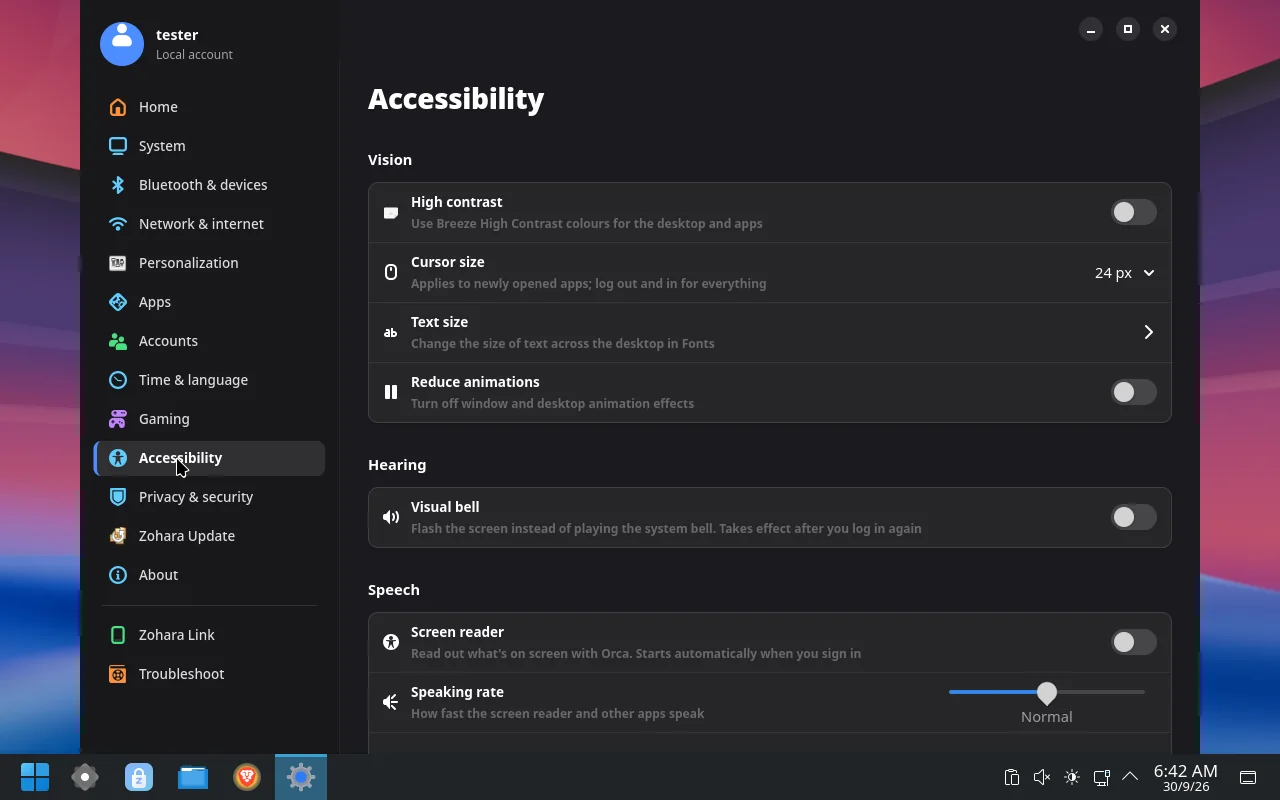
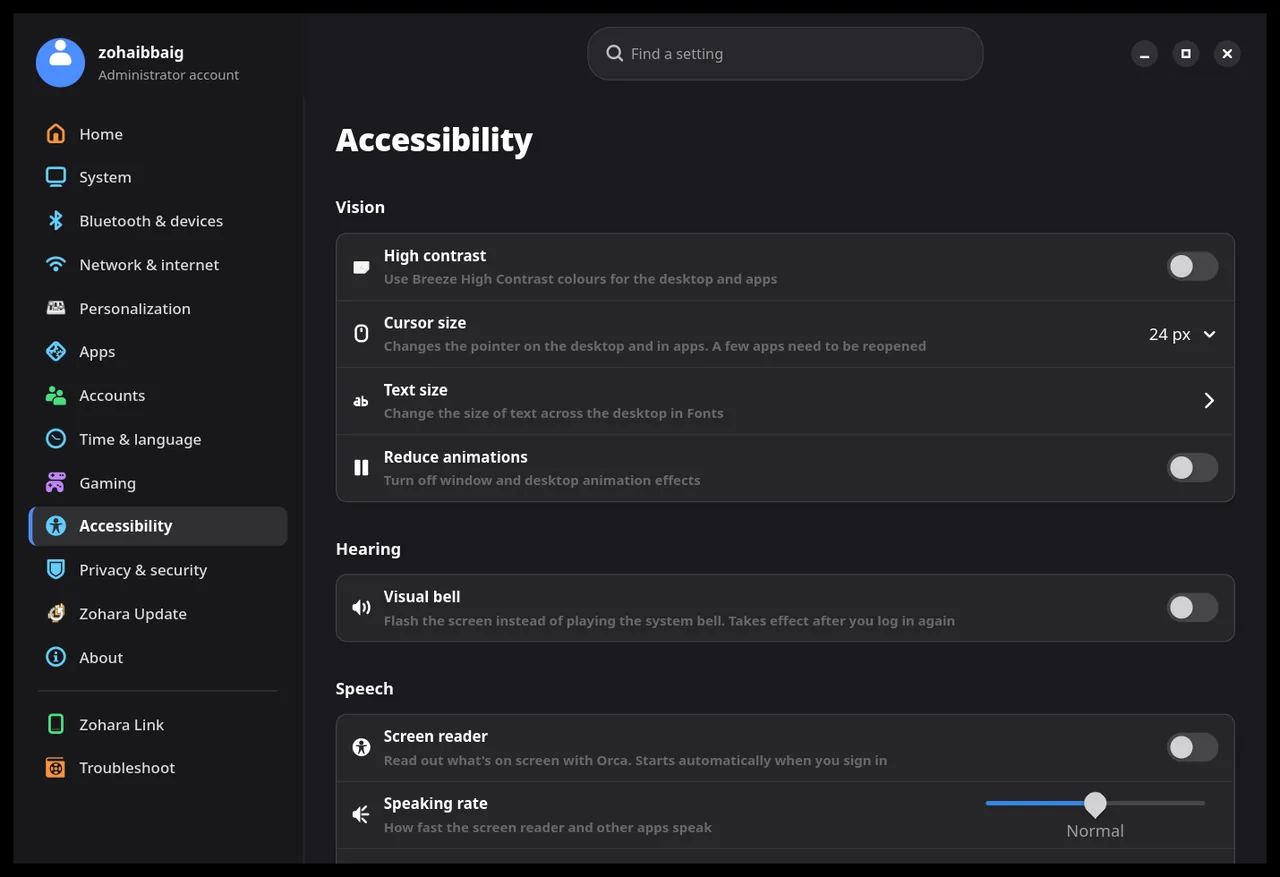
Draft for Zohara OS 1.1: new features section (12 cards), real Settings screenshots, updated description; download section unchanged until the ISO is uploaded

diff --git a/index.html b/index.html
@@ -4,7 +4,7 @@
   <meta charset="utf-8">
   <meta name="viewport" content="width=device-width, initial-scale=1">
   <title>Zohara OS — a Linux that feels like home</title>
-  <meta name="description" content="Zohara OS is an Arch-based Linux with a desktop Windows users already know: a familiar taskbar and Start menu, a Windows 11-style Settings app, a software store and voice typing that runs on your own computer.">
+  <meta name="description" content="Zohara OS 1.1 is an Arch-based Linux with a desktop Windows users already know: a taskbar and Start menu, a 3D desktop cube, a Windows 11-style Settings app, a software store and voice typing that runs on your own computer.">
   <meta name="theme-color" content="#0B0E14">
   <meta name="color-scheme" content="dark">
   <meta property="og:title" content="Zohara OS — a Linux that feels like home">
@@ -88,10 +88,67 @@
       </div>
     </section>
 
+    <section id="new" class="section">
+      <div class="wrap">
+        <h2>New in Zohara OS 1.1</h2>
+        <p class="section-lead">The desktop got more to play with, and nearly all of it is a switch in Settings, not a file to edit.</p>
+        <div class="cards">
+          <article class="card">
+            <h3>A 3D desktop cube</h3>
+            <p>Your desktops turn as a cube with 3 and 4 finger swipes. Press <kbd>Meta</kbd> + <kbd>C</kbd> or swipe four fingers up to see every desktop at once, and turn the cube with the mouse, the scroll wheel or two fingers.</p>
+          </article>
+          <article class="card">
+            <h3>Move windows between desktops</h3>
+            <p>In the overview a tray lists the windows. Drag one onto a desktop, or tap <strong>Move</strong> and then a desktop, which works well on a touchpad. Double-tap a desktop to move, reorder or delete it.</p>
+          </article>
+          <article class="card">
+            <h3>Desktops that make themselves</h3>
+            <p>Let each new app open on its own desktop, or keep it manual and send apps yourself. Your choice, in Settings.</p>
+          </article>
+          <article class="card">
+            <h3>Live wallpaper</h3>
+            <p>Pick a video and it loops behind your windows. It is quiet unless you turn the sound on.</p>
+          </article>
+          <article class="card">
+            <h3>Sound balance and an equalizer</h3>
+            <p>Set left and right balance separately for each speaker or headset, boost volume up to 150%, and shape the sound with an equalizer that changes while the music plays.</p>
+          </article>
+          <article class="card">
+            <h3>Scrolling your way</h3>
+            <p>Reverse the scroll direction on the touchpad and the mouse separately, and tune speed, acceleration, tap to click and left-handed mode.</p>
+          </article>
+          <article class="card">
+            <h3>Make the look yours</h3>
+            <p>Hide, float or fade the taskbar, move the window buttons, and set the cube and animation options with sliders. Settings update as the system changes, within a second.</p>
+          </article>
+          <article class="card">
+            <h3>Memory and performance</h3>
+            <p>Plain-language controls for swap behaviour, cache pressure and compressed memory, with the defaults a click away.</p>
+          </article>
+          <article class="card">
+            <h3>Graphics choice per app</h3>
+            <p>On a laptop with two graphics chips, choose which one each app uses, for the apps that need the power and the ones that don't.</p>
+          </article>
+          <article class="card">
+            <h3>Games found for you</h3>
+            <p>Games from Steam, Lutris and Heroic show up on their own. Add any other game by hand, and Game Mode gives a running game priority.</p>
+          </article>
+          <article class="card">
+            <h3>Updates you control</h3>
+            <p>Pick a channel, choose what to update, and undo the last update. Programs that fit your hardware are suggested, and you can say no to any of them.</p>
+          </article>
+          <article class="card">
+            <h3>Privacy and a safer lock screen</h3>
+            <p>A firewall and device access switches in one place, one indicator for camera and microphone use, and a lock screen that no longer locks you out after a wrong password.</p>
+          </article>
+        </div>
+      </div>
+    </section>
+
     <section id="screenshots" class="section alt">
       <div class="wrap">
         <h2>A look around</h2>
-        <p class="section-lead">Click any picture to see it full size. These are from a test build running in a virtual machine.</p>
+        <p class="section-lead">Click any picture to see it full size. The Store, Home and Start menu pictures are from a test build in a virtual machine. The Settings pages are from a laptop running Zohara OS 1.1.</p>
         <div class="gallery">
           <figure>
             <a href="assets/img/store.webp"><img loading="lazy" src="assets/img/store.webp" width="1280" height="800" alt="Zohara Store's home page with large cards for Firefox, Steam, GIMP and VSCodium, and an Editor's Picks row below."></a>
@@ -102,16 +159,56 @@
             <figcaption><strong>Settings.</strong> A left rail and card groups, like the Windows 11 layout.</figcaption>
           </figure>
           <figure>
-            <a href="assets/img/settings-update.webp"><img loading="lazy" src="assets/img/settings-update.webp" width="1280" height="800" alt="Zohara Update page saying You're up to date, with options to pause updates, see update history and choose a channel."></a>
-            <figcaption><strong>Updates.</strong> Check, pause, review history, or pick a channel.</figcaption>
+            <a href="assets/img/settings-update.webp"><img loading="lazy" src="assets/img/settings-update.webp" width="1280" height="877" alt="The Zohara Update page with an update available, an update channel picker, the list of Zohara apps and an Undo the last update button."></a>
+            <figcaption><strong>Updates.</strong> Pick a channel, choose what to update, and undo the last update.</figcaption>
           </figure>
           <figure>
             <a href="assets/img/start-menu.webp"><img loading="lazy" src="assets/img/start-menu.webp" width="1280" height="800" alt="The Start menu open over the desktop, with Favorites for Brave Origin, Settings, Dolphin and Software Store, and categories on the left."></a>
             <figcaption><strong>Start menu.</strong> Favorites, categories and search.</figcaption>
           </figure>
           <figure>
-            <a href="assets/img/settings-accessibility.webp"><img loading="lazy" src="assets/img/settings-accessibility.webp" width="1280" height="800" alt="The Accessibility settings page with vision, hearing and speech options such as high contrast, cursor size and a screen reader."></a>
+            <a href="assets/img/settings-accessibility.webp"><img loading="lazy" src="assets/img/settings-accessibility.webp" width="1280" height="877" alt="The Accessibility settings page with high contrast, cursor size, text size, reduce animations, visual bell, screen reader and speaking rate."></a>
             <figcaption><strong>Accessibility.</strong> Contrast, text size, a screen reader and more.</figcaption>
+          </figure>
+          <figure>
+            <a href="assets/img/settings-sound.webp"><img loading="lazy" src="assets/img/settings-sound.webp" width="1280" height="877" alt="The Sound page with an output device picker, a volume slider that goes to 150 percent, and a Balance section with a left and right slider for each output device."></a>
+            <figcaption><strong>Sound.</strong> Volume, a left and right balance for every output device, and an equalizer.</figcaption>
+          </figure>
+          <figure>
+            <a href="assets/img/settings-touchpad.webp"><img loading="lazy" src="assets/img/settings-touchpad.webp" width="1280" height="877" alt="The Touchpad page with switches for reverse scroll direction, tap to click and disable while typing, and sliders for pointer speed and scrolling speed."></a>
+            <figcaption><strong>Touchpad and mouse.</strong> Scroll direction, speed, tap to click.</figcaption>
+          </figure>
+          <figure>
+            <a href="assets/img/settings-display.webp"><img loading="lazy" src="assets/img/settings-display.webp" width="1280" height="877" alt="The Display page with resolution and refresh rate, scale, orientation and a night light switch."></a>
+            <figcaption><strong>Display.</strong> Resolution, scale and night light.</figcaption>
+          </figure>
+          <figure>
+            <a href="assets/img/settings-power.webp"><img loading="lazy" src="assets/img/settings-power.webp" width="1280" height="877" alt="The Power and battery page with the battery level, a power mode picker and sleep and screen-off timers."></a>
+            <figcaption><strong>Power and battery.</strong> Power mode, sleep and lid rules.</figcaption>
+          </figure>
+          <figure>
+            <a href="assets/img/settings-gaming.webp"><img loading="lazy" src="assets/img/settings-gaming.webp" width="1280" height="877" alt="The Gaming page with Your games, My games, and Game Mode switches for higher priority and keeping the screen on."></a>
+            <figcaption><strong>Gaming.</strong> Your games found for you, and Game Mode.</figcaption>
+          </figure>
+          <figure>
+            <a href="assets/img/settings-apps.webp"><img loading="lazy" src="assets/img/settings-apps.webp" width="1280" height="877" alt="The Apps page with default apps, apps for websites, offline maps and startup apps, and a list of installed apps."></a>
+            <figcaption><strong>Apps.</strong> Installed apps, startup apps and web apps.</figcaption>
+          </figure>
+          <figure>
+            <a href="assets/img/settings-default-apps.webp"><img loading="lazy" src="assets/img/settings-default-apps.webp" width="1280" height="877" alt="The Default apps page with a choice for web browser, files, photos, video, music, text files and PDF documents."></a>
+            <figcaption><strong>Default apps.</strong> Choose what opens each kind of file.</figcaption>
+          </figure>
+          <figure>
+            <a href="assets/img/settings-keyboard.webp"><img loading="lazy" src="assets/img/settings-keyboard.webp" width="1280" height="877" alt="The Keyboard page with keyboard shortcuts, key repeat settings and keyboard layouts."></a>
+            <figcaption><strong>Keyboard.</strong> Shortcuts, key repeat and layouts.</figcaption>
+          </figure>
+          <figure>
+            <a href="assets/img/settings-privacy.webp"><img loading="lazy" src="assets/img/settings-privacy.webp" width="1280" height="877" alt="The Privacy and security page with a firewall switch, password saving switch and firewall rules."></a>
+            <figcaption><strong>Privacy and security.</strong> A firewall and device access in one place.</figcaption>
+          </figure>
+          <figure>
+            <a href="assets/img/settings-troubleshoot.webp"><img loading="lazy" src="assets/img/settings-troubleshoot.webp" width="1280" height="877" alt="The Troubleshoot page showing system health, a one-click fix for a stopped service, and options to save a problem report."></a>
+            <figcaption><strong>Troubleshoot.</strong> Problems found and fixed, with a report you can send.</figcaption>
           </figure>
         </div>
       </div>
